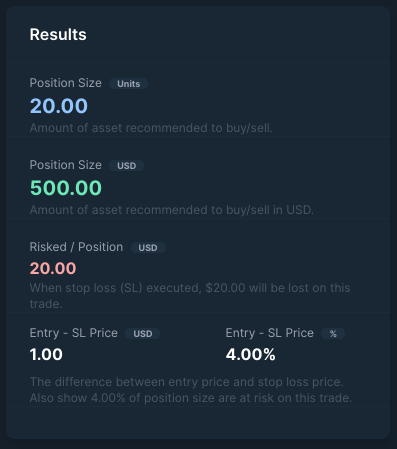
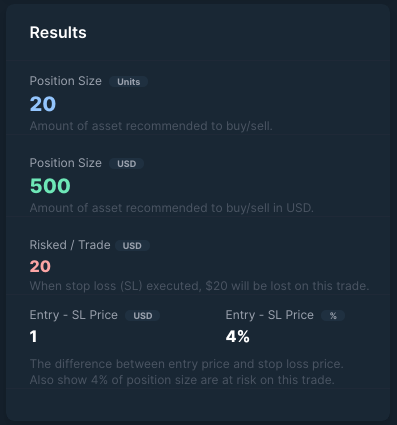
adding all equations img

diff --git a/src/components/explanation.js b/src/components/explanation.js
@@ -1,8 +1,16 @@
 import React from "react";
 import Footer from "./footer";
 
+// imgs
 import InputImg from "../assets/img/input.png";
 import ResultImg from "../assets/img/result.png";
+
+// Equations
+import RiskPerTrade from "../assets/img/riskPerTrade.svg";
+import EntryMinSl from "../assets/img/entryMinSL.svg";
+import PositionSizeUnit from "../assets/img/positionSizeUnit.svg";
+import PositionSizeUsd from "../assets/img/positionSizeUsd.svg";
+import EntryMinSlPer from "../assets/img/entryMinSlPer.svg";
 
 // Get projects data
 let database = require('./db.json');
@@ -93,10 +101,10 @@ class Explanation extends React.Component {
                         </thead>
 
                         <tbody>
+                          { drawDownTable }
                         </tbody>
 
                       </table>
-                      { drawDownTable }
                       <br />
 
                       <p>
@@ -176,6 +184,11 @@ class Explanation extends React.Component {
                       <p className="mt-1">
                         This are the equations used to calculate the risk calculator results:
                       </p>
+                      <img src={ RiskPerTrade } className="w-70 mt-5" alt="Risk per Trade" />
+                      <img src={ EntryMinSl } className="w-70 mt-5" alt="Entry Price minus Stop Loss Price" />
+                      <img src={ PositionSizeUnit } className="w-70 mt-5" alt="Position Size Unit" />
+                      <img src={ PositionSizeUsd } className="w-70 mt-5" alt="Position Size USD" />
+                      <img src={ EntryMinSlPer } className="w-70 mt-5" alt="EntryPrice minus Stop Loss Percentage" />
                     </div>
                   </div>
                   <hr className="border-gray-800" />

diff --git a/src/components/tradingCalculator.js b/src/components/tradingCalculator.js
@@ -208,6 +208,7 @@ class TradingCalculator extends React.Component {
       };
 
       Position.prototype.getTotalTolerableRiskPerTrade = function () {
+          console.log(this.tolerableRiskInPercentOfCapital.provide());
           return (this.capital.provide() * (this.tolerableRiskInPercentOfCapital.provide() / 100));
       };
 
@@ -217,12 +218,6 @@ class TradingCalculator extends React.Component {
 
       Position.prototype.getUnitsToBuy = function () {
           var result = (this.getTotalTolerableRiskPerTrade() / this.getStopLossPerUnitLoss());
-          //if (this.capital.provide() <= (result * this.pricePerUnit.provide())) {
-          //    return 0;
-          //} else {
-          //    return result;
-          //}
-          //console.log(this.capital.provide() + " and " + (result * this.pricePerUnit.provide()))
           return result;
       };
       
@@ -489,7 +484,7 @@ class TradingCalculator extends React.Component {
                 <div>
                   <div className="flex">
                     <div className="flex-1">
-                      <p className="px-4 ml-2 mt-3 w-48 text-xs text-gray-400">Risked / Position <span className="textSmall ml-1 px-2 w-10 font-bold bg-dim-600 rounded-full">USD</span></p>
+                      <p className="px-4 ml-2 mt-3 w-48 text-xs text-gray-400">Risked / Trade<span className="textSmall ml-1 px-2 w-10 font-bold bg-dim-600 rounded-full">USD</span></p>
                       <h2 className="px-4 ml-2 w-48 font-extrabold text-red-300">{this.state.totalTolerableRiskPerTrade}</h2>
                       <p className="px-4 mx-2 w-full text-xs text-gray-600">When stop loss (SL) executed, ${this.state.totalTolerableRiskPerTrade} will be lost on this trade.</p>
                     </div>

diff --git a/src/components/text.md b/src/components/text.md
@@ -36,4 +36,16 @@ structure Changes, the trade should end.
 Why only risk 3%
 
 
+# Equations
+* add [] arround left side of equations and color match the results color
+
+[Risk Per Trade]
+
+[Entry - SL Price] = Entry Price - Stop Loss Price
+
+[Position Size Unit] = [Risk per Trade] / [Entry - SL Price]
+
+[Posiion Size USD] = [Position Size Unit] * Entry Price
+
+[Entry - SL Price (%)] = ([Risk per Trade] / Position Size USD) * 100
 
